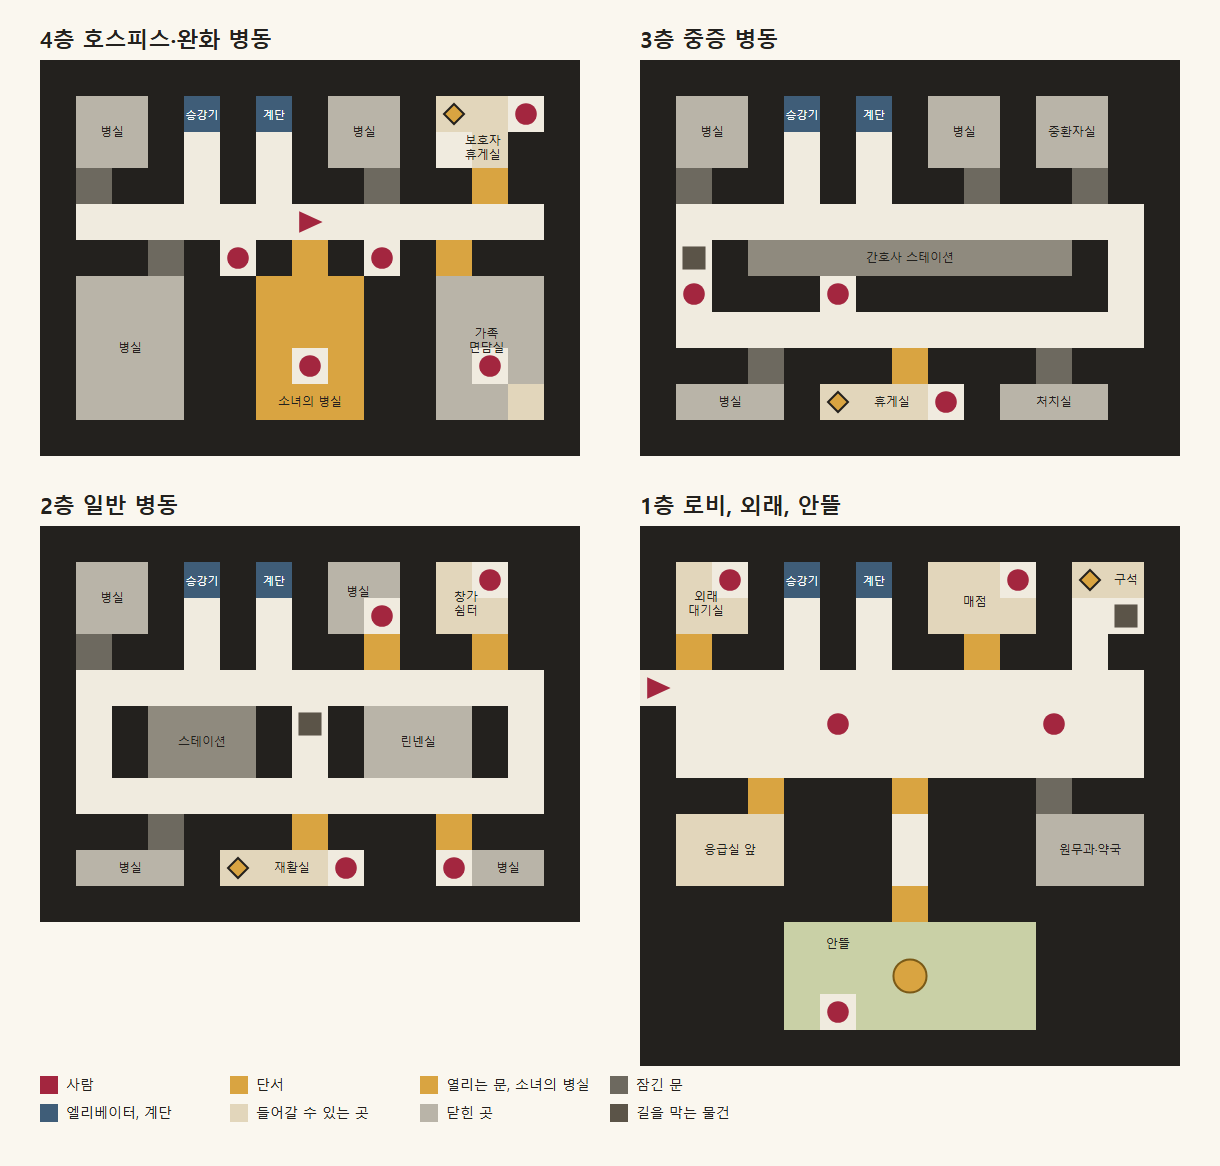
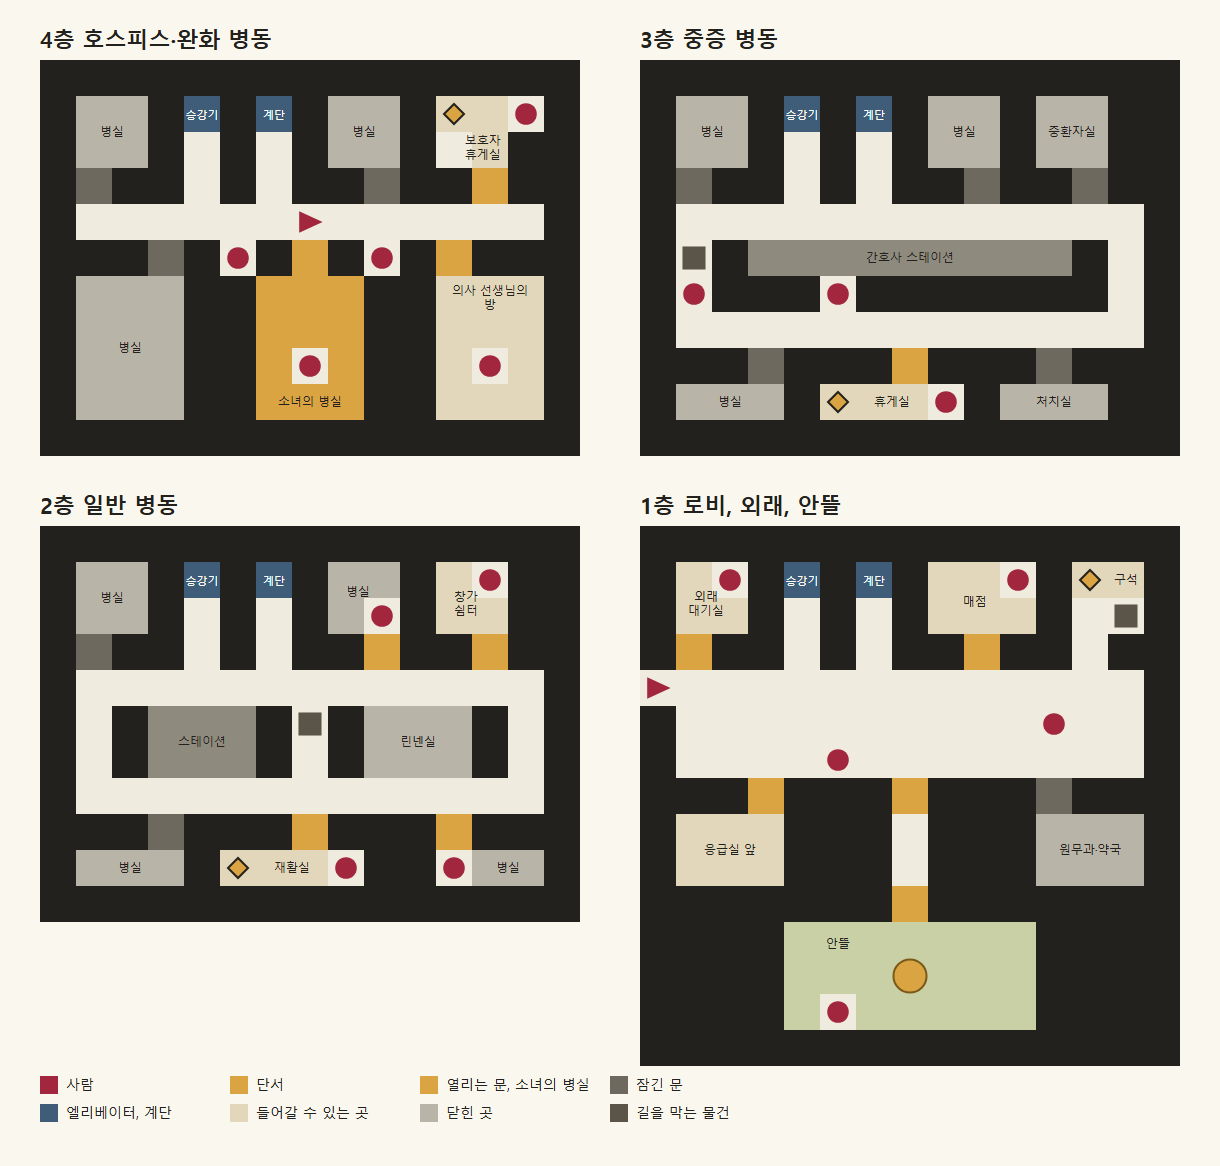
병문안 v0.78: 층마다 다른 은행나무, 벽에 붙은 안내 데스크, 병원 정문, 정문으로 가는 목표
- 창 밖 은행나무를 층마다 다른 크기와 자리로(높을수록 멀리 작게, 1층은 창 가득), 1·2·3층에 창 추가
- 안내 데스크를 로비 남쪽 벽에 붙이고 그 벽에 층별 안내판(가짜 벽 제거)
- 정문을 병원 유리 자동문 그림으로(Gemini 1회, 누적 41회)
- 할 일을 다 마치면 목표가 "1층 정문으로 나가기"(나가면 다음 날을 바로 할지 물음)
- 창으로 드는 그날의 빛을 종이색과 섞어 회색 날에도 밝게

Changed region(s): [[0.3426, 0.2161, 0.4672, 0.3705], [0.6541, 0.6175, 0.7164, 0.6792]]

diff --git a/src/features/visit/hospitalScene.ts b/src/features/visit/hospitalScene.ts
@@ -1,7 +1,7 @@
 // The first-person view: one floor at a time, built from hospitalMap.ts. Only draws while something moves.
 // three.js loads here and nowhere else, so it costs nothing until you reach the hospital.
 import { charAt, DX, DY, GIRL_FRONT, ROOM_ENTRY, turn, walkable, type Cell, type Dir, type FloorNo, type Pose } from './hospitalMap';
-import { EXTRA_PART, FURNITURE_PART, GIRL_PART, loadSheets, LYING_PART, PERSON2_SLOT, PERSON_SLOT, PROP, SHEET, SKIN, SLOT_H, SLOT_W, tileAt, TILE, TILES, type ExtraPart, type FurniturePart, type GirlPart, type LyingPart, type PersonLook, type SkinFace } from './hospitalArt';
+import { WINDOW_TILE, EXTRA_PART, FURNITURE_PART, GIRL_PART, loadSheets, LYING_PART, PERSON2_SLOT, PERSON_SLOT, PROP, SHEET, SKIN, SLOT_H, SLOT_W, tileAt, TILE, TILES, type ExtraPart, type FurniturePart, type GirlPart, type LyingPart, type PersonLook, type SkinFace } from './hospitalArt';
 
 const STEP_MS = 280;
 const FOCUS_MS = 420;
@@ -31,6 +31,8 @@ const SHADOW_OPACITY = 0.34;
 const UV_INSET = 3;
 // Her window: to one side of the head of the bed, where lying there she can look out of it.
 const WINDOW_X = GIRL_FRONT.x + 1;
+// Below her floor, a window at the east end of each south corridor, onto the same courtyard.
+const SOUTH_WINDOW_ROW: Record<number, number> = { 1: 6, 2: 7, 3: 7 };
 const INK = [0.09, 0.08, 0.06];
 const PAPER = [0.93, 0.9, 0.84];
 // v0.74: each a little brighter, so the drawn walls read without the quiet going out of the upper floors.
@@ -76,7 +78,8 @@ void main() {
   if (uCutout > 0.5 && v < 0.05) discard;
   vec3 c = mix(uInk, uPaper, v) * vShade * uFloorLight;
   if (vLit > 1.5) c = vec3(0.64, 0.15, 0.25) * v;
-  else if (vLit > 0.5 && v > 0.75) c = uDayLight * v;
+  // the day's light through the glass: its colour, but over the paper, so a grey day still reads as daylight (v0.78)
+  else if (vLit > 0.5 && v > 0.75) c = mix(uPaper, min(uDayLight * 1.5, vec3(1.0)), 0.6) * v;
   float fog = smoothstep(1.2, 6.5 * uFogFar, vDist) * (uFogFar > 1.5 ? 0.35 : 1.0);
   // the window's light stays when the room dims around whoever you're looking at
   if (vLit > 0.5 && vLit < 1.5 && v > 0.75) gl_FragColor = vec4(c, 1.0);
@@ -447,38 +450,38 @@ export async function createHospitalScene(host: HTMLElement, dayLight: string): 
         // While she's being treated her door is shut, so the room behind it is out of reach.
         const shutHere = roomShut && floor === 4 && x === ROOM_ENTRY.x && y === ROOM_ENTRY.y && d === 2;
         // The front desk has a wall behind it, seen from either side, though the map leaves that gap open.
-        const behindDesk = floor === 1 && x === 5 && ((y === 5 && d === 2) || (y === 6 && d === 0));
-        if (open.has(`${nx},${ny}`) && !shutHere && !behindDesk) continue;
+        if (open.has(`${nx},${ny}`) && !shutHere) continue;
         const c = charAt(floor, nx, ny);
         // the riverside's far trees, lower than the courtyard's walls
         const h = floor === 0 ? RIVER_TREES_H : yard ? YARD_WALL_H : WALL_H;
-        let tile: number = TILES.wall + Math.floor(hash(x, y, d) * 4);
+        let tile: number = TILES.wall + Math.floor(hash(x, y, d) * 2);
         let flip = hash(y, x, d) < 0.5;
         let lit = false;
-        if (shutHere) tile = TILES.roomDoor;
+        if (shutHere) tile = TILES.shutDoor;
         else if (c === '=') tile = TILES.shutDoor;
         else if (c === 'E') tile = TILES.lift;
         else if (c === 'S') tile = TILES.stairs;
         else if (c === 'N') tile = TILES.counter;
-        else if (here === '+') tile = TILES.jamb;
+        // the way out: the hospital's glass front doors
+        else if (floor === 1 && here === '@' && d === 3) tile = TILES.entrance;
         else if (floor === 1 && (here === 'M' || here === 'm')) tile = TILES.shelf;
         else if (floor === 1 && here === 'i' && d === 2) tile = TILES.floorGuide;
         // across the river, the far bank; on the other sides the woods
         else if (floor === 0) tile = d === 2 ? TILES.farBank : TILES.treeline;
         else if (yard) tile = TILES.yardWall;
         // windows: the end of her floor's corridor, above her bed, and the sitting room on the second
-        else if ((here === 'W' && d === 2) || (floor === 4 && here === '_' && x === WINDOW_X && d === 2) || (floor === 2 && here === 'V' && d === 0)) {
-          tile = TILES.window;
+        else if ((here === 'W' && d === 2) || (floor === 4 && here === '_' && x === WINDOW_X && d === 2) || (floor === 2 && here === 'V' && d === 0) || (floor < 4 && x === 13 && y === SOUTH_WINDOW_ROW[floor] && d === 2)) {
+          tile = WINDOW_TILE[floor];
           lit = true;
         } else if (floor > 0 && (((x === 4 || x === 6) && y === 2 && d % 2 === 1) || (x === 4 && y === 4 && d === 2))) {
           tile = TILES.number + floor - 1;
           flip = false;
         }
-        if (tile === TILES.shutDoor || tile === TILES.lift || tile === TILES.stairs || tile === TILES.roomDoor || tile === TILES.window || tile === TILES.floorGuide) flip = false;
+        if (tile === TILES.shutDoor || tile === TILES.lift || tile === TILES.stairs || tile === TILES.entrance || tile === WINDOW_TILE[floor] || tile === TILES.floorGuide) flip = false;
         // the riverside's woods and far bank run on across three cells, so they don't repeat cell by cell
         const along = d === 0 ? x : d === 2 ? -x - 1 : d === 1 ? y : -y - 1;
         const part: [number, number] | undefined = floor === 0 ? [((along % RIVER_SPAN) + RIVER_SPAN) % RIVER_SPAN, RIVER_SPAN] : undefined;
-        quad(wallCorners(x, y, d, h), tile, { shade: SIDE_SHADE[d], flip: floor === 0 ? false : flip, lit: lit || tile === TILES.roomDoor, part });
+        quad(wallCorners(x, y, d, h), tile, { shade: SIDE_SHADE[d], flip: floor === 0 ? false : flip, lit: lit || shutHere, part });
       }
     }
 

diff --git a/scripts/assets/build-hospital-sheets.js b/scripts/assets/build-hospital-sheets.js
@@ -359,11 +359,10 @@ const WALL = { src: 'tex-walls', box: [76, 76, 469, 466], seam: 'x' };
 const STRUCTURE = [
   // the corridor wall four ways, so it doesn't look copied: as drawn, mirrored, moved half along, both
   { tile: 0, ...WALL },
-  { tile: 1, ...WALL, flip: true },
-  { tile: 2, ...WALL, shift: true },
-  { tile: 3, ...WALL, flip: true, shift: true },
+  { tile: 1, ...WALL, flip: true, shift: true },
+  // v0.78: the front door
+  { tile: 2, src: 'tex-entrance', box: [345, 280, 680, 700] },
   // under the parts the game writes on
-  { tile: 7, ...WALL },
   { tile: 15, ...WALL },
   { tile: 16, ...WALL },
   { tile: 17, ...WALL },
@@ -373,8 +372,11 @@ const STRUCTURE = [
   // and zigzags when repeated, so the ceiling stays painted in code
   { tile: 4, src: 'tex-ground', box: [84, 84, 482, 472], seam: 'xy', soften: 0.5 },
   { tile: 6, src: 'tex-doors', box: [29, 362, 328, 670] },
-  { tile: 11, src: 'tex-doors', box: [29, 362, 328, 670] },
+  // a window per floor; the view through each is put in below (VIEWS)
   { tile: 8, src: 'tex-window', box: [62, 309, 469, 726] },
+  { tile: 3, src: 'tex-window', box: [62, 309, 469, 726] },
+  { tile: 7, src: 'tex-window', box: [62, 309, 469, 726] },
+  { tile: 11, src: 'tex-window', box: [62, 309, 469, 726] },
   { tile: 9, src: 'tex-doors', box: [366, 362, 660, 670] },
   { tile: 10, src: 'tex-doors', box: [698, 362, 998, 670] },
   { tile: 12, src: 'tex-water', box: [554, 316, 965, 710], seam: 'x' },
@@ -387,6 +389,16 @@ const STRUCTURE = [
   { tile: 23, src: 'tex-ground', box: [551, 546, 942, 939], seam: 'xy' },
 ];
 const SEAM = 40;
+// The glass of the window tile, and what each floor sees through it: the horizon of the courtyard, and the ginkgo
+// (the same drawing as the courtyard's own) at its middle, its foot and its height. From the fourth floor it's small
+// and far down; from the first it fills the glass.
+const GLASS = { x: 28, y: 8, w: 150, h: 144 };
+const VIEWS = [
+  { tile: 8, horizon: 30, x: 108, foot: 116, height: 56 },
+  { tile: 11, horizon: 56, x: 52, foot: 128, height: 82 },
+  { tile: 7, horizon: 86, x: 98, foot: 142, height: 112 },
+  { tile: 3, horizon: 124, x: 70, foot: 168, height: 190 },
+];
 
 async function buildStructure() {
   const sheet = new Uint8Array(SHEET * SHEET);
@@ -425,6 +437,27 @@ async function buildStructure() {
         sheet[(oy + y) * SHEET + ox + x] = Math.max(1, out[y * TILE + sx]);
       }
     }
+  }
+  // each floor's view of the ginkgo
+  const ginkgo = await cut({ src: 'large', box: [5, 255, 365, 720], solid: true, tone: tree });
+  for (const v of VIEWS) {
+    const { x: ox, y: oy } = tileAt(v.tile);
+    for (let y = 0; y < GLASS.h; y++) for (let x = 0; x < GLASS.w; x++) sheet[(oy + GLASS.y + y) * SHEET + ox + GLASS.x + x] = y < v.horizon ? 236 : y === v.horizon ? 130 : 204;
+    const width = Math.round((ginkgo.trim.width * v.height) / ginkgo.trim.height);
+    const { data, info } = await sharp(ginkgo.la, { raw: { width: ginkgo.w, height: ginkgo.h, channels: 2 } }).extract(ginkgo.trim).resize({ width, height: v.height }).raw().toBuffer({ resolveWithObject: true });
+    const left = GLASS.x + v.x - Math.round(width / 2);
+    const top = GLASS.y + v.foot - v.height;
+    for (let y = 0; y < info.height; y++) {
+      for (let x = 0; x < info.width; x++) {
+        const gx = left + x;
+        const gy = top + y;
+        if (gx < GLASS.x || gx >= GLASS.x + GLASS.w || gy < GLASS.y || gy >= GLASS.y + GLASS.h) continue;
+        const i = (y * info.width + x) * info.channels;
+        if (data[i + info.channels - 1] >= 128) sheet[(oy + gy) * SHEET + ox + gx] = Math.max(1, data[i]);
+      }
+    }
+    // the bar down the middle of the window, over the view
+    for (let y = 0; y < GLASS.h; y++) for (const x of [59, 60]) sheet[(oy + GLASS.y + y) * SHEET + ox + GLASS.x + x] = 40;
   }
   const file = path.join(SHEETS_OUT, 'sheet-structure.png');
   await sharp(Buffer.from(sheet), { raw: { width: SHEET, height: SHEET, channels: 1 } }).toColourspace('b-w').png({ compressionLevel: 9, palette: false }).toFile(file);

diff --git a/src/features/visit/hospitalArt.ts b/src/features/visit/hospitalArt.ts
@@ -5,16 +5,20 @@
 
 export const SHEET = 1024;
 export const TILE = 200;
+// v0.78: the wall down to two versions, the door frame drawn as wall and her door as any closed door, to make room for a
+// window on every floor (each with its own view of the ginkgo) and the front door.
 export const TILES = {
-  wall: 0, // to 3: four versions
+  wall: 0, // and 1: two versions
+  entrance: 2,
+  windowF1: 3,
   floor: 4,
   ceiling: 5,
   shutDoor: 6,
-  jamb: 7,
-  window: 8,
+  windowF2: 7,
+  window: 8, // the fourth floor's
   lift: 9,
   stairs: 10,
-  roomDoor: 11,
+  windowF3: 11,
   counter: 12,
   yardWall: 13,
   yardGround: 14,
@@ -157,7 +161,10 @@ function doorShape(p: Pen, x: number, y: number) {
 }
 
 // Tiles taken whole from the drawn sheet when it's there; the rest are painted here, over the drawn wall where they have one.
-const DRAWN_TILES = [TILES.floor, TILES.shutDoor, TILES.window, TILES.lift, TILES.stairs, TILES.roomDoor, TILES.counter, TILES.yardWall, TILES.yardGround, TILES.water, TILES.treeline, TILES.pebbles, TILES.farBank];
+/** Which window each floor looks out of: the higher, the further down onto the tree. */
+export const WINDOW_TILE: Record<number, number> = { 1: TILES.windowF1, 2: TILES.windowF2, 3: TILES.windowF3, 4: TILES.window };
+
+const DRAWN_TILES = [TILES.floor, TILES.shutDoor, TILES.window, TILES.windowF1, TILES.windowF2, TILES.windowF3, TILES.entrance, TILES.lift, TILES.stairs, TILES.counter, TILES.yardWall, TILES.yardGround, TILES.water, TILES.treeline, TILES.pebbles, TILES.farBank];
 
 function paintStructure(c: CanvasRenderingContext2D, base: Uint8Array | null = null) {
   drawn = base;
@@ -170,7 +177,7 @@ function paintTiles(c: CanvasRenderingContext2D) {
   const p: Pen = { c, r: seeded(11) };
   const at = (t: number) => tileAt(t);
 
-  for (let v = 0; v < 4; v++) {
+  for (let v = 0; v < 2; v++) {
     const { x, y } = at(TILES.wall + v);
     wallBase(p, x, y);
     if (v === 1) {
@@ -212,21 +219,26 @@ function paintTiles(c: CanvasRenderingContext2D) {
   c.fillRect(t.x + 72, t.y + 32, 56, 42);
   box(p, t.x + 72, t.y + 32, 56, 42, 2);
 
-  t = at(TILES.jamb);
-  wallBase(p, t.x, t.y);
-  hatch(p, t.x, t.y, TILE, TILE, 14, 0.36);
+  // painted only if the drawn sheet can't be had: the ginkgo through each floor's window, lower down the higher you are
+  for (const [f, tile] of Object.entries(WINDOW_TILE)) {
+    t = at(tile);
+    wallBase(p, t.x, t.y);
+    c.fillStyle = grey(1);
+    c.fillRect(t.x + 30, t.y + 22, 140, 92);
+    c.fillStyle = grey(0.68);
+    c.beginPath();
+    c.arc(t.x + 70 + Number(f) * 15, t.y + 100 - Number(f) * 8, 14 + (5 - Number(f)) * 6, 0, Math.PI * 2);
+    c.fill();
+    box(p, t.x + 30, t.y + 22, 140, 92, 4);
+    line(p, t.x + 100, t.y + 22, t.x + 100, t.y + 114, 3);
+  }
 
-  t = at(TILES.window);
+  t = at(TILES.entrance);
   wallBase(p, t.x, t.y);
-  c.fillStyle = grey(1);
-  c.fillRect(t.x + 30, t.y + 22, 140, 92);
-  // the same ginkgo every south window looks down on
-  c.fillStyle = grey(0.68);
-  c.beginPath();
-  c.arc(t.x + 136, t.y + 88, 24, 0, Math.PI * 2);
-  c.fill();
-  box(p, t.x + 30, t.y + 22, 140, 92, 4);
-  line(p, t.x + 100, t.y + 22, t.x + 100, t.y + 114, 3);
+  c.fillStyle = grey(0.95);
+  c.fillRect(t.x + 24, t.y + 20, 152, 180);
+  box(p, t.x + 24, t.y + 20, 152, 180, 4);
+  line(p, t.x + 100, t.y + 20, t.x + 100, t.y + 200, 3);
 
   t = at(TILES.lift);
   paper(p, t.x, t.y, TILE, 0.5);
@@ -246,12 +258,6 @@ function paintTiles(c: CanvasRenderingContext2D) {
     c.fillRect(t.x + inset, y, TILE - inset * 2, h);
     box(p, t.x + inset, y, TILE - inset * 2, h, 1.6);
   }
-
-  t = at(TILES.roomDoor);
-  doorShape(p, t.x, t.y);
-  c.fillStyle = grey(1);
-  c.fillRect(t.x + 72, t.y + 32, 56, 42);
-  box(p, t.x + 72, t.y + 32, 56, 42, 2);
 
   t = at(TILES.counter);
   wallBase(p, t.x, t.y);

diff --git a/src/features/visit/hospitalMap.ts b/src/features/visit/hospitalMap.ts
@@ -87,8 +87,8 @@ export const HOSPITAL: Record<FloorNo, { map: string[]; rooms: Record<string, st
       '#OO#.#.#MMM#.%#',
       '#+##.#.##+##.##',
       '@.............#',
-      '#^...i..&&.g.^#',
-      '#.............#',
+      '#^......&&.g.^#',
+      '#....i........#',
       '###+###+###=###',
       '#HHH###.###RRR#',
       '#HHH###.###RRR#',
@@ -123,7 +123,9 @@ export const STAIRS_FRONT: Cell = { x: 6, y: 2 };
 export const ROOM_ENTRY: Cell = { x: 7, y: 5 };
 export const GIRL_FRONT: Cell = { x: 7, y: 7 };
 export const SHOP_FRONT: Cell = { x: 10, y: 2 };
-export const GUIDE_FRONT: Cell = { x: 5, y: 4 };
+export const GUIDE_FRONT: Cell = { x: 5, y: 5 };
+/** The way out, once there's nothing left to do. */
+export const FRONT_DOOR: Cell = { x: 0, y: 4 };
 /** In front of the doctor's desk, in his room at the end of her floor. */
 export const DOCTOR_FRONT: Cell = { x: 12, y: 7 };
 
@@ -240,7 +242,8 @@ export function goalFor(o: { doneToday: boolean; boughtToday: boolean; clueToFin
   if (!o.boughtToday) return { text: '1층 매점에서 선물 고르기', floor: 1, cell: SHOP_FRONT, face: 0 };
   // Before the fairy says what it is, only that something of hers is on that floor.
   if (o.somethingOfHers) return { text: `${o.somethingOfHers}층 어딘가에서 그 아이의 물건 찾기`, floor: o.somethingOfHers, cell: null };
-  return null;
+  // Nothing left: the front door, where you can go home or straight on to the next day.
+  return { text: '1층 정문으로 나가기', floor: 1, cell: FRONT_DOOR };
 }
 
 // The first walk in: how to move, what the goal means, how to talk to someone, the shop, then up to her floor.

diff --git a/scripts/assets/draw-hospital-map.js b/scripts/assets/draw-hospital-map.js
@@ -248,9 +248,7 @@ function detail(f, ox, oy, s, { HOSPITAL, ALONG_THE_WALLS, walkable, CLUE_CELLS,
       const nx = x + DX[d];
       const ny = y + DY[d];
       const n = charAt(f, nx, ny);
-      const behindDesk = f === 1 && x === 5 && ((y === 5 && d === 2) || (y === 6 && d === 0));
-      if (behindDesk) out += face(x, y, d, '#2a2825', 7);
-      else if (open.has(`${nx},${ny}`)) {
+      if (open.has(`${nx},${ny}`)) {
         if (c === '.' && rooms[n] && !'WUXY'.includes(n)) {
           out += `<line x1="${px(x + 0.5)}" y1="${py(y + 0.5)}" x2="${px(nx + 0.5)}" y2="${py(ny + 0.5)}" stroke="#ff5a00" stroke-width="6" stroke-dasharray="7 5"/>`;
           problems.push(`${f}층 ${rooms[n]}: ${x},${y} → ${nx},${ny}`);
@@ -275,7 +273,7 @@ function detail(f, ox, oy, s, { HOSPITAL, ALONG_THE_WALLS, walkable, CLUE_CELLS,
   }));
   for (const [x, y, look, across, along] of ALONG_THE_WALLS[f]) out += thing(x + 0.5 + across, y + 0.5 + along, NAME[look], look === 'plant' ? '#5d8a35' : look === 'chairBox' ? '#3f7d6e' : '#6b5b8c', look === 'wheelchair' ? 0.62 : 0.5);
   if (f === 1) {
-    out += thing(5.5, 5.2, '데스크', '#8a6a44', 0.78, 0.24);
+    out += thing(5.5, 6.2, '데스크', '#8a6a44', 0.78, 0.24);
     out += thing(10.5, 1.8, '계산대', '#8a6a44', 0.78, 0.24);
     out += thing(0.5, 4.5, '정문', '#a3263f', 0.72, 0.34);
   }

diff --git a/scripts/assets/generate-hospital-art.js b/scripts/assets/generate-hospital-art.js
@@ -88,6 +88,10 @@ hands unfolding a letter, the writing not visible. Only the hands and forearms s
   // The first day: hair down, both shoulders on the mattress, only her head turning.
   'lying-loose-window': `${LYING_LOOSE} Only her head is turned to the side, her face in profile looking far away out of a window. Calm, a little distant.`,
   'lying-loose-turned': `${LYING_LOOSE} Only her head is turned about halfway back toward the viewer, both eyes visible, looking up from the pillow. The faintest playful hint at the corner of her mouth.`,
+  // v0.78: the way out, looking like a hospital's front door
+  'tex-entrance': `${SAME_STYLE} One square panel completely filled edge to edge, seen straight on from inside, no perspective: a
+hospital's main entrance, a pair of wide automatic sliding glass doors in a plain metal frame, closed, bright daylight
+outside showing a short path and a few trees beyond the glass, a mat on the floor in front. No text, no signs, no letters.`,
   // v0.76: a riverside that looks like one: the far bank with its sky as one tall backdrop, moving water, and bushes
   // thick enough to hide a child.
   'river-scene': `${SAME_STYLE} Two separate square panels side by side with a wide plain gap, each completely filled edge to edge,

diff --git a/scripts/check-core-flow.js b/scripts/check-core-flow.js
@@ -340,6 +340,7 @@ async function main() {
       await readTip();
       await press('앞으로', 4);
       await press('오른쪽');
+      await press('앞으로');
       t.note('병문안: 튜토리얼이 말 걸기를 설명', await t.hasText('흰 버튼'));
       t.note('병문안: 컴퓨터엔 Enter 키도 알려 줌', await t.hasText('Enter 키로 말을'));
       await readTip();
@@ -355,7 +356,10 @@ async function main() {
       t.note('병문안: 목표가 매점으로 바뀜', await t.waitText('1층 매점에서 선물 고르기', 2000));
       await readTip();
       await t.shot('tutorial_shop.png');
-      await press('왼쪽');
+      // back out from the desk to the lobby's middle row, then on as before
+      await press('뒤돌기');
+      await press('앞으로');
+      await press('오른쪽');
       await press('앞으로', 4);
       await press('왼쪽');
       await press('앞으로', 2);

diff --git a/src/features/visit/Hospital.tsx b/src/features/visit/Hospital.tsx
@@ -50,7 +50,8 @@ const BED_FOOT = -0.2;
 const BED_X = 0.4;
 // A chair backs onto the wall it's beside, facing the room.
 const awayFromWall = (across: number, along: number): Dir => (along > 0 ? 0 : along < 0 ? 2 : across > 0 ? 3 : 1);
-const GUIDE_CELL = { x: 5, y: 5 };
+// Against the lobby's south wall, the floor guide on the wall behind (v0.78; it stood out in the middle before).
+const GUIDE_CELL = { x: 5, y: 6 };
 const SHOPKEEPER_CELL = { x: 10, y: 1 };
 const SHOP_DOOR = { x: 9, y: 3 };
 // Further back, so whoever came in to send you out is in the picture too.

diff --git a/docs/병문안_모티브와_아트_구상.md b/docs/병문안_모티브와_아트_구상.md
@@ -191,6 +191,10 @@ No text. No horror, no blood, no medical equipment close-ups. Portrait orientati
 
 강가를 진짜 강처럼(사용자 요청): 강 건너 숲과 여름 하늘을 한 장에, 위에서 본 흐르는 강물을 한 장에(1회), 아이가 숨을 만큼 빽빽한 수풀(1회). 재시도는 없었다. 배경판은 2.6 높이로 세우고 그림 한 장이 세 칸에 걸쳐 이어지게 했다. 바깥에서는 안개를 옅게 해 하늘이 보인다.
 
+### 10차 제작 결과 (2026-11-05, Gemini 1회, 누적 41회)
+
+정문을 병원 문답게: 안에서 본 유리 자동 미닫이문 한 장, 재시도 없음. 가운데 두 짝만 잘라 정문 칸에 넣었다. 층마다 다른 창 밖 풍경은 새로 그리지 않고, 안뜰 은행나무 그림을 층마다 다른 크기와 자리로 창 그림의 유리 안에 합성했다(4층은 멀리 작게, 1층은 창 가득).
+
 ### 호출 계획
 
 1. **1차 시험 (약 3회):** B1, C1, C5. 분위기가 맞는지, 같은 소녀로 보이는지 확인한다.

diff --git a/docs/병원_지도.md b/docs/병원_지도.md
@@ -305,8 +305,8 @@
 #OO#.#.#MMM#.%#
 #+##.#.##+##.##
 @.............#
-#^...i..&&.g.^#
-#.............#
+#^......&&.g.^#
+#....i........#
 ###+###+###=###
 #HHH###.###RRR#
 #HHH###.###RRR#
